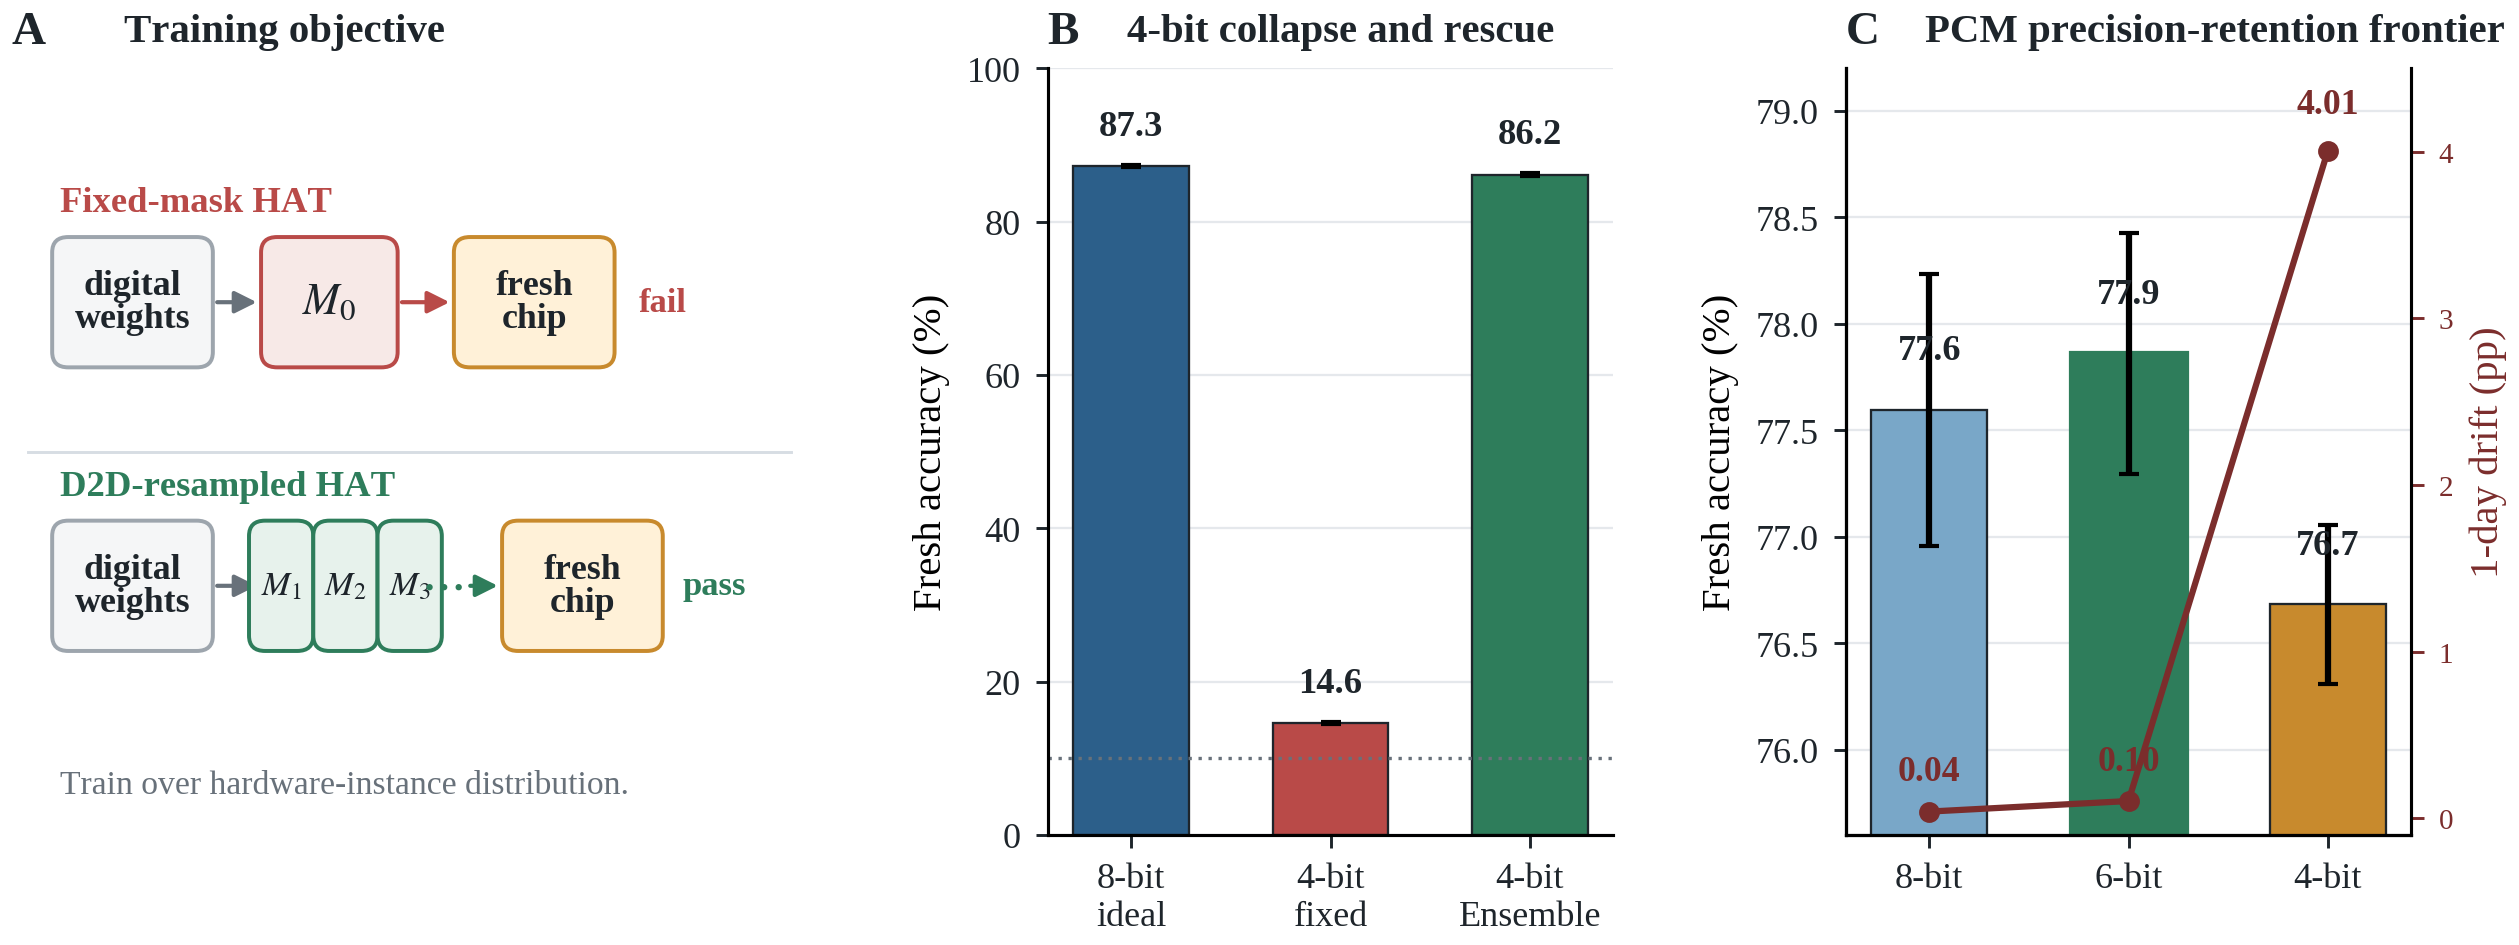
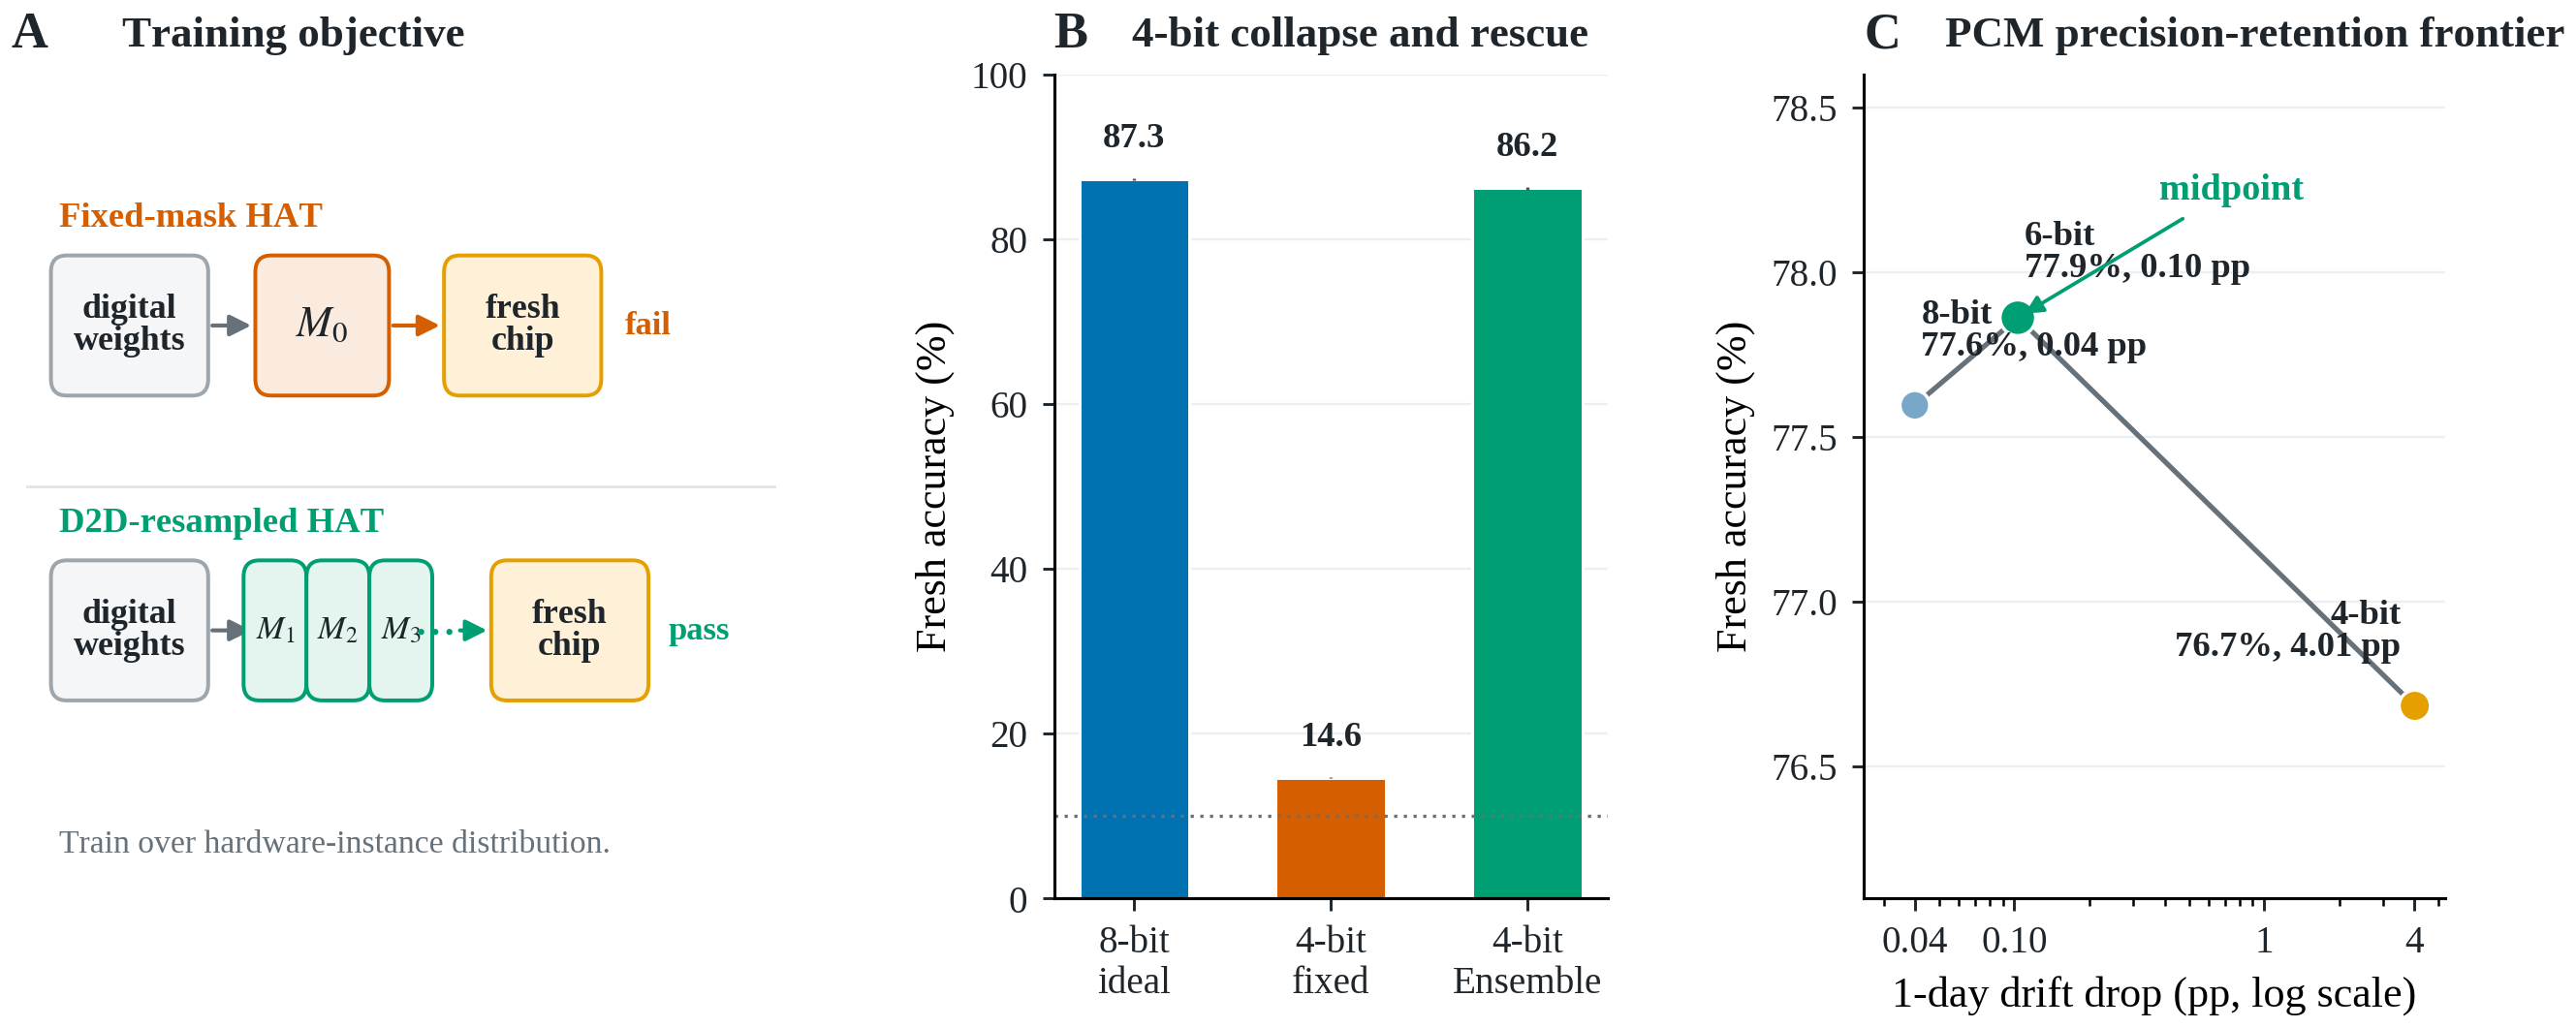
docs(paper1): repair main figure readability

diff --git a/scripts/_gpt/plot_paper1_spine.py b/scripts/_gpt/plot_paper1_spine.py
@@ -26,15 +26,15 @@ SRC_DIR.mkdir(parents=True, exist_ok=True)
 
 COL = {
     "ink": "#1E252B",
-    "muted": "#68717A",
-    "rule": "#D7DDE3",
-    "blue": "#2C5F8A",
-    "blue_fill": "#EAF2F8",
-    "red": "#B94A48",
-    "red_fill": "#F7E9E7",
-    "green": "#2E7D5B",
-    "green_fill": "#E7F2EC",
-    "gold": "#C88A2D",
+    "muted": "#66717A",
+    "rule": "#E1E6EB",
+    "blue": "#0072B2",
+    "blue_fill": "#E7F3FB",
+    "red": "#D55E00",
+    "red_fill": "#FBEADE",
+    "green": "#009E73",
+    "green_fill": "#E4F4EF",
+    "gold": "#E69F00",
     "gold_fill": "#FFF1D8",
     "gray_fill": "#F5F6F7",
 }
@@ -151,11 +151,11 @@ plt.rcParams.update(
         "font.family": "Tinos",
         "font.serif": ["Tinos", "Times New Roman", "Nimbus Roman", "Liberation Serif", "DejaVu Serif"],
         "mathtext.fontset": "stix",
-        "font.size": 9.2,
-        "axes.labelsize": 9.8,
-        "axes.titlesize": 10.0,
-        "xtick.labelsize": 8.7,
-        "ytick.labelsize": 8.7,
+        "font.size": 10.2,
+        "axes.labelsize": 10.6,
+        "axes.titlesize": 10.8,
+        "xtick.labelsize": 9.4,
+        "ytick.labelsize": 9.4,
         "axes.linewidth": 0.75,
         "pdf.fonttype": 42,
         "ps.fonttype": 42,
@@ -164,8 +164,8 @@ plt.rcParams.update(
 
 
 def panel_header(ax, label: str, title: str, y: float = 1.04) -> None:
-    ax.text(0.0, y, label, transform=ax.transAxes, ha="left", va="bottom", fontsize=11.3, fontweight="bold", color=COL["ink"])
-    ax.text(0.14, y + 0.004, title, transform=ax.transAxes, ha="left", va="bottom", fontsize=9.8, fontweight="bold", color=COL["ink"])
+    ax.text(0.0, y, label, transform=ax.transAxes, ha="left", va="bottom", fontsize=12.6, fontweight="bold", color=COL["ink"])
+    ax.text(0.14, y + 0.004, title, transform=ax.transAxes, ha="left", va="bottom", fontsize=10.8, fontweight="bold", color=COL["ink"])
 
 
 def box(ax, x: float, y: float, w: float, h: float, text: str, fc: str, ec: str, fs: float = 7.5, weight: str = "bold") -> None:
@@ -202,8 +202,8 @@ def style_axis(ax) -> None:
     ax.tick_params(length=3, width=0.7, color=COL["ink"], labelcolor=COL["ink"])
 
 
-fig = plt.figure(figsize=(8.6, 3.65), facecolor="white")
-gs = fig.add_gridspec(1, 3, width_ratios=[1.42, 1.0, 1.0], wspace=0.36)
+fig = plt.figure(figsize=(9.0, 4.05), facecolor="white")
+gs = fig.add_gridspec(1, 3, width_ratios=[1.42, 1.0, 1.05], wspace=0.40)
 ax_a = fig.add_subplot(gs[0, 0])
 ax_b = fig.add_subplot(gs[0, 1])
 ax_c = fig.add_subplot(gs[0, 2])
@@ -244,7 +244,17 @@ means = [float(row["fresh_mean"]) for row in ideal_rows]
 stds = [float(row["fresh_std"]) for row in ideal_rows]
 colors = [COL["blue"], COL["red"], COL["green"]]
 x = np.arange(3)
-ax_b.bar(x, means, yerr=stds, capsize=2.4, width=0.58, color=colors, edgecolor=COL["ink"], linewidth=0.55)
+ax_b.bar(
+    x,
+    means,
+    yerr=stds,
+    capsize=0,
+    width=0.56,
+    color=colors,
+    edgecolor="white",
+    linewidth=0.7,
+    error_kw={"elinewidth": 0.8, "ecolor": "#555555"},
+)
 panel_header(ax_b, "B", "4-bit collapse and rescue", y=1.02)
 ax_b.set_ylabel("Fresh accuracy (%)")
 ax_b.set_ylim(0, 100)
@@ -258,31 +268,36 @@ style_axis(ax_b)
 # Panel C: PCM precision/retention frontier.
 labels_pcm = ["8-bit", "6-bit", "4-bit"]
 fresh = [float(row["fresh_mean"]) for row in pcm_rows]
-fresh_std = [float(row["fresh_std"]) for row in pcm_rows]
 drift = [float(row["drift_drop_1d_pp"]) for row in pcm_rows]
-x2 = np.arange(3)
 bar_colors = ["#79A7C8", COL["green"], COL["gold"]]
-bars_c = ax_c.bar(x2, fresh, yerr=fresh_std, capsize=2.4, width=0.58, color=bar_colors, edgecolor=COL["ink"], linewidth=0.55)
-bars_c[1].set_edgecolor(COL["green"])
-bars_c[1].set_linewidth(1.25)
 panel_header(ax_c, "C", "PCM precision-retention frontier", y=1.02)
 ax_c.set_ylabel("Fresh accuracy (%)")
-ax_c.set_ylim(75.6, 79.2)
-ax_c.set_xticks(x2)
-ax_c.set_xticklabels(labels_pcm)
-for i, v in enumerate(fresh):
-    ax_c.text(i, v + 0.20, f"{v:.1f}", ha="center", va="bottom", fontsize=8.7, fontweight="bold", color=COL["ink"])
+ax_c.set_xlabel("1-day drift drop (pp, log scale)")
+ax_c.set_xscale("log")
+ax_c.set_xlim(0.025, 5.3)
+ax_c.set_ylim(76.1, 78.6)
+ax_c.set_xticks([0.04, 0.10, 1.0, 4.0])
+ax_c.set_xticklabels(["0.04", "0.10", "1", "4"])
+ax_c.plot(drift, fresh, color=COL["muted"], linewidth=1.25, zorder=1)
+ax_c.scatter(drift, fresh, s=[54, 78, 60], color=bar_colors, edgecolor="white", linewidth=0.8, zorder=3)
+for i, (label, xval, yval, dval) in enumerate(zip(labels_pcm, drift, fresh, drift)):
+    dx = 1.06 if i < 2 else 0.88
+    ha = "left" if i < 2 else "right"
+    dy = 0.13 if i != 1 else 0.10
+    ax_c.text(xval * dx, yval + dy, f"{label}\n{yval:.1f}%, {dval:.2f} pp", ha=ha, va="bottom", fontsize=8.8, fontweight="bold", color=COL["ink"], linespacing=1.0)
+ax_c.annotate(
+    "midpoint",
+    xy=(drift[1], fresh[1]),
+    xytext=(0.38, 78.25),
+    textcoords="data",
+    arrowprops={"arrowstyle": "-|>", "color": COL["green"], "lw": 0.9},
+    ha="left",
+    va="center",
+    fontsize=9.2,
+    fontweight="bold",
+    color=COL["green"],
+)
 style_axis(ax_c)
-
-ax_d = ax_c.twinx()
-ax_d.plot(x2, drift, color="#7B2D2C", marker="o", markersize=4.0, linewidth=1.5)
-ax_d.set_ylim(-0.1, 4.5)
-ax_d.set_ylabel("1-day drift (pp)", color="#7B2D2C")
-ax_d.tick_params(axis="y", colors="#7B2D2C", labelsize=7.0, length=3, width=0.7)
-ax_d.spines[["top"]].set_visible(False)
-for i, v in enumerate(drift):
-    dy = 0.14 if v < 1 else 0.18
-    ax_d.text(i, v + dy, f"{v:.2f}", ha="center", va="bottom", fontsize=8.6, color="#7B2D2C", fontweight="bold")
 
 for ext in ["pdf", "png"]:
     fig.savefig(FIG_DIR / f"fig1_paper1_spine.{ext}", dpi=300, bbox_inches="tight", pad_inches=0.04)

diff --git a/scripts/_gpt/plot_paper1_decision_map.py b/scripts/_gpt/plot_paper1_decision_map.py
@@ -22,15 +22,15 @@ for font_file in TINOS_DIR.glob("Tinos-*.ttf"):
 
 COL = {
     "ink": "#1E252B",
-    "muted": "#68717A",
-    "rule": "#D7DDE3",
-    "blue": "#2C5F8A",
-    "blue_fill": "#EAF2F8",
-    "red": "#B94A48",
-    "red_fill": "#F7E9E7",
-    "green": "#2E7D5B",
-    "green_fill": "#E7F2EC",
-    "gold": "#C88A2D",
+    "muted": "#66717A",
+    "rule": "#E1E6EB",
+    "blue": "#0072B2",
+    "blue_fill": "#E7F3FB",
+    "red": "#D55E00",
+    "red_fill": "#FBEADE",
+    "green": "#009E73",
+    "green_fill": "#E4F4EF",
+    "gold": "#E69F00",
     "gold_fill": "#FFF1D8",
     "gray_fill": "#F5F6F7",
 }
@@ -79,7 +79,7 @@ plt.rcParams.update(
         "font.family": "Tinos",
         "font.serif": ["Tinos", "Times New Roman", "Nimbus Roman", "Liberation Serif", "DejaVu Serif"],
         "mathtext.fontset": "stix",
-        "font.size": 9.8,
+        "font.size": 12.0,
         "axes.linewidth": 0.75,
         "pdf.fonttype": 42,
         "ps.fonttype": 42,
@@ -88,8 +88,8 @@ plt.rcParams.update(
 
 
 def panel_header(ax, label: str, title: str, x: float, y: float) -> None:
-    ax.text(x, y, label, ha="left", va="bottom", fontsize=11.6, fontweight="bold", color=COL["ink"])
-    ax.text(x + 0.044, y + 0.003, title, ha="left", va="bottom", fontsize=10.0, fontweight="bold", color=COL["ink"])
+    ax.text(x, y, label, ha="left", va="bottom", fontsize=15.2, fontweight="bold", color=COL["ink"])
+    ax.text(x + 0.044, y + 0.003, title, ha="left", va="bottom", fontsize=13.4, fontweight="bold", color=COL["ink"])
 
 
 def box(ax, x: float, y: float, w: float, h: float, fc: str, ec: str, lw: float = 0.95) -> None:
@@ -126,31 +126,31 @@ pcm_8 = pcm["8-bit PCM"]
 pcm_6 = pcm["6-bit PCM"]
 pcm_4 = pcm["4-bit PCM"]
 
-fig, ax = plt.subplots(figsize=(8.6, 3.55), facecolor="white")
+fig, ax = plt.subplots(figsize=(9.4, 5.10), facecolor="white")
 ax.set_axis_off()
 ax.set_xlim(0, 1)
 ax.set_ylim(0, 1)
-fig.subplots_adjust(left=0.035, right=0.985, top=0.94, bottom=0.08)
+fig.subplots_adjust(left=0.030, right=0.990, top=0.950, bottom=0.070)
 
 # Panel A/B: evidence cards.
 panel_header(ax, "A", "Evidence: failure and rescue", 0.02, 0.90)
 panel_header(ax, "B", "Evidence: physical precision", 0.57, 0.90)
 
-card_y = 0.52
-card_h = 0.27
-card_w = 0.160
+card_y = 0.55
+card_h = 0.31
+card_w = 0.168
 cards = [
     (0.03, "4-bit fixed", f"{fixed:.1f}%", "fresh", "reject", COL["red"], COL["red_fill"]),
     (0.250, "4-bit Ensemble", f"{rescued:.1f}%", f"near 8-bit ({base8:.1f}%)", "rescue", COL["green"], COL["green_fill"]),
 ]
 for x, title, number, sub, footer, color, fill in cards:
     box(ax, x, card_y, card_w, card_h, fill, color, lw=1.15)
-    ax.text(x + card_w / 2, card_y + 0.205, title, ha="center", va="center", fontsize=8.7, fontweight="bold", color=color)
-    ax.text(x + card_w / 2, card_y + 0.125, number, ha="center", va="center", fontsize=17.0, fontweight="bold", color=COL["ink"])
-    ax.text(x + card_w / 2, card_y + 0.065, sub, ha="center", va="center", fontsize=8.0, color=COL["muted"])
-    ax.text(x + card_w / 2, card_y - 0.055, footer, ha="center", va="top", fontsize=8.2, fontweight="bold", color=color)
+    ax.text(x + card_w / 2, card_y + 0.238, title, ha="center", va="center", fontsize=11.8, fontweight="bold", color=color)
+    ax.text(x + card_w / 2, card_y + 0.148, number, ha="center", va="center", fontsize=25.0, fontweight="bold", color=COL["ink"])
+    ax.text(x + card_w / 2, card_y + 0.070, sub, ha="center", va="center", fontsize=10.8, color=COL["muted"])
+    ax.text(x + card_w / 2, card_y - 0.060, footer, ha="center", va="top", fontsize=10.8, fontweight="bold", color=color)
 arrow(ax, 0.198, card_y + card_h / 2, 0.247, card_y + card_h / 2)
-ax.text(0.223, card_y + card_h / 2 + 0.060, "resample\nD2D masks", ha="center", va="center", fontsize=7.1, color=COL["muted"])
+ax.text(0.226, card_y + card_h / 2 + 0.074, "resample\nD2D masks", ha="center", va="center", fontsize=11.6, color=COL["muted"])
 
 precision_cards = [
     (0.565, "8-bit", pcm_8, COL["blue"], COL["blue_fill"], "safe"),
@@ -162,35 +162,35 @@ for x, label, row, color, fill, role in precision_cards:
     box(ax, x, card_y, w, card_h, fill, color, lw=1.55 if label == "6-bit" else 1.0)
     fresh = float(row["fresh_mean"])
     drift = float(row["drift_drop_1d_pp"])
-    ax.text(x + w / 2, card_y + 0.205, label, ha="center", va="center", fontsize=10.0, fontweight="bold", color=color)
-    ax.text(x + w / 2, card_y + 0.130, f"{fresh:.1f}%", ha="center", va="center", fontsize=13.0, fontweight="bold", color=COL["ink"])
+    ax.text(x + w / 2, card_y + 0.238, label, ha="center", va="center", fontsize=13.4, fontweight="bold", color=color)
+    ax.text(x + w / 2, card_y + 0.133, f"{fresh:.1f}%", ha="center", va="center", fontsize=19.4, fontweight="bold", color=COL["ink"])
     drift_color = COL["red"] if drift > 1.0 else COL["green"]
-    ax.text(x + w / 2, card_y + 0.070, f"{drift:.2f} pp", ha="center", va="center", fontsize=8.6, fontweight="bold", color=drift_color)
-    ax.text(x + w / 2, card_y + 0.025, "1-day drift", ha="center", va="center", fontsize=7.0, color=COL["muted"])
-    ax.text(x + w / 2, card_y - 0.055, role, ha="center", va="top", fontsize=8.0, fontweight="bold", color=color)
+    ax.text(x + w / 2, card_y + 0.078, f"{drift:.2f} pp", ha="center", va="center", fontsize=11.5, fontweight="bold", color=drift_color)
+    ax.text(x + w / 2, card_y + 0.030, "1-day drift", ha="center", va="center", fontsize=9.6, color=COL["muted"])
+    ax.text(x + w / 2, card_y - 0.060, role, ha="center", va="top", fontsize=10.6, fontweight="bold", color=color)
 
 # Vertical divider.
-ax.plot([0.515, 0.515], [0.45, 0.86], color=COL["rule"], linewidth=0.9)
+ax.plot([0.515, 0.515], [0.48, 0.88], color=COL["rule"], linewidth=0.9)
 
 # Panel C: decision rule chain.
-panel_header(ax, "C", "Decision rule", 0.02, 0.34)
-rule_y = 0.075
-rule_h = 0.19
-rule_w = 0.235
+panel_header(ax, "C", "Decision rule", 0.02, 0.360)
+rule_y = 0.080
+rule_h = 0.245
+rule_w = 0.245
 steps = [
-    (0.090, "1", "diagnose", "fresh-instance\ncollapse", COL["red"], COL["red_fill"]),
-    (0.385, "2", "train", "D2D-resampled\nEnsemble HAT", COL["green"], COL["green_fill"]),
-    (0.680, "3", "deploy", "6-bit PCM unless\nrefreshing 4-bit", COL["blue"], COL["blue_fill"]),
+    (0.075, "1", "diagnose", "fresh-instance\ncollapse", COL["red"], COL["red_fill"]),
+    (0.382, "2", "train", "D2D-resampled\nEnsemble HAT", COL["green"], COL["green_fill"]),
+    (0.690, "3", "deploy", "6-bit PCM unless\nrefreshing 4-bit", COL["blue"], COL["blue_fill"]),
 ]
 for i, (x, num, head, body, color, fill) in enumerate(steps):
     box(ax, x, rule_y, rule_w, rule_h, fill, color, lw=1.05)
-    ax.text(x + 0.040, rule_y + rule_h / 2, num, ha="center", va="center", fontsize=11.0, fontweight="bold", color="white", bbox={"boxstyle": "circle,pad=0.18", "facecolor": color, "edgecolor": "none"})
-    ax.text(x + 0.135, rule_y + 0.125, head, ha="center", va="center", fontsize=8.8, fontweight="bold", color=color)
-    ax.text(x + 0.135, rule_y + 0.066, body, ha="center", va="center", fontsize=8.1, color=COL["ink"], linespacing=1.0)
+    ax.text(x + 0.043, rule_y + rule_h / 2, num, ha="center", va="center", fontsize=15.2, fontweight="bold", color="white", bbox={"boxstyle": "circle,pad=0.18", "facecolor": color, "edgecolor": "none"})
+    ax.text(x + 0.142, rule_y + 0.166, head, ha="center", va="center", fontsize=12.2, fontweight="bold", color=color)
+    ax.text(x + 0.142, rule_y + 0.085, body, ha="center", va="center", fontsize=11.2, color=COL["ink"], linespacing=1.0)
     if i < 2:
         arrow(ax, x + rule_w + 0.012, rule_y + rule_h / 2, x + 0.285, rule_y + rule_h / 2)
 
-ax.text(0.50, 0.012, "Claim boundary: algorithmic generalization and physical retention are separate deployment decisions.", ha="center", va="bottom", fontsize=8.0, color=COL["muted"])
+ax.text(0.50, 0.016, "Claim boundary: algorithmic generalization and physical retention are separate deployment decisions.", ha="center", va="bottom", fontsize=10.5, color=COL["muted"])
 
 for ext in ["pdf", "png"]:
     fig.savefig(FIG_DIR / f"fig2_paper1_decision_map.{ext}", bbox_inches="tight", pad_inches=0.04, dpi=300)

diff --git a/paper/latex_gpt/sections/05_results.tex b/paper/latex_gpt/sections/05_results.tex
@@ -25,7 +25,7 @@ Under the tested PCM UnitCell simulation regime, training is viable across 4-bit
 
 \begin{figure}[H]
 \centering
-\includegraphics[width=\textwidth]{fig2_paper1_decision_map}
+\makebox[\textwidth][c]{\includegraphics[width=1.16\textwidth]{fig2_paper1_decision_map}}
 \caption{\textbf{Results-to-deployment decision map.} (A) Fixed-mask 4-bit HAT collapses under fresh hardware instances, while D2D-resampled Ensemble HAT restores 4-bit fresh accuracy near the 8-bit idealized baseline. (B) In PCM UnitCell simulation, 8-bit and 6-bit are drift-flat over one day, whereas 4-bit is trainable but drift-limited. (C) The resulting deployment rule is sequential: diagnose fresh-instance collapse, train with a mismatch-distributed objective, then choose the PCM precision from the retention budget.}
 \label{fig:paper1-decision-map}
 \end{figure}

diff --git a/report_md/_gpt/CODEX_MAIN_FIGURE_VISUAL_REPAIR_20260503.md b/report_md/_gpt/CODEX_MAIN_FIGURE_VISUAL_REPAIR_20260503.md
@@ -1,0 +1,55 @@
+# Codex Main-Figure Visual Repair — 2026-05-03
+
+## Scope
+
+User feedback targeted main-text figure readability, especially Fig. 2 typography and figure size. Gemini also raised a visual-review note about Fig. 1C using a twin-y-axis bar/line design.
+
+## Decisions
+
+1. Fig. 2 should be enlarged rather than merely retouched locally.
+2. Main-text figures keep Tinos / Times-compatible typography because the manuscript body is Times-like and the user explicitly requested Times-style readability.
+3. Gemini's twin-axis criticism is accepted for Fig. 1C; the panel now uses a single-coordinate precision-retention Pareto view.
+4. Auxiliary linework and palette were lightened; primary numeric claims remain bold and large.
+
+## Changes Applied
+
+### Fig. 2: results-to-deployment decision map
+
+- Increased LaTeX insertion from `\textwidth` to centered `1.16\textwidth`.
+- Increased figure canvas from `8.6 x 3.55` to `9.4 x 5.10` inches.
+- Increased global figure font size to 12 pt.
+- Enlarged panel headers, card titles, headline percentages, drift values, decision-step labels, and footer text.
+- Switched main palette to a lighter colorblind-safe set: blue / orange-red / green / gold with soft fills.
+- Regenerated vector PDF and PNG.
+
+### Fig. 1: experimental spine
+
+- Removed the twin-y-axis PCM precision/retention panel.
+- Replaced Fig. 1C with a single-axis Pareto-style scatter/line plot:
+  - x-axis: 1-day drift drop (pp, log scale)
+  - y-axis: fresh accuracy (%)
+  - 8-bit, 6-bit, and 4-bit are connected as a precision-retention frontier.
+  - 6-bit is annotated as the midpoint.
+- Removed heavy capped error bars from the main visual; uncertainty remains in canonical tables and source data.
+- Increased main figure typography and panel-title weight.
+- Lightened color palette and bar outlines.
+
+## Validation
+
+- `latexmk -pdf -interaction=nonstopmode -halt-on-error main.tex`: PASS
+- LaTeX log scan for undefined references/citations and overfull/underfull boxes: PASS
+- `python -m py_compile scripts/_gpt/plot_paper1_spine.py scripts/_gpt/plot_paper1_decision_map.py`: PASS
+- `python scripts/_gpt/check_locked_numbers.py`: PASS, 22/22 locked numbers
+- `python scripts/_gpt/check_local_pcm_precision_ladder.py`: PASS
+- Fig. 1/Fig. 2 PDF fonts: Tinos/Tinos-Bold embedded; STIX appears only for math labels in Fig. 1.
+
+## Files Updated
+
+- `scripts/_gpt/plot_paper1_spine.py`
+- `scripts/_gpt/plot_paper1_decision_map.py`
+- `paper/latex_gpt/sections/05_results.tex`
+- `paper/latex_gpt/figures/fig1_paper1_spine.pdf`
+- `paper/latex_gpt/figures/fig1_paper1_spine.png`
+- `paper/latex_gpt/figures/fig2_paper1_decision_map.pdf`
+- `paper/latex_gpt/figures/fig2_paper1_decision_map.png`
+- `paper/latex_gpt/main.pdf`